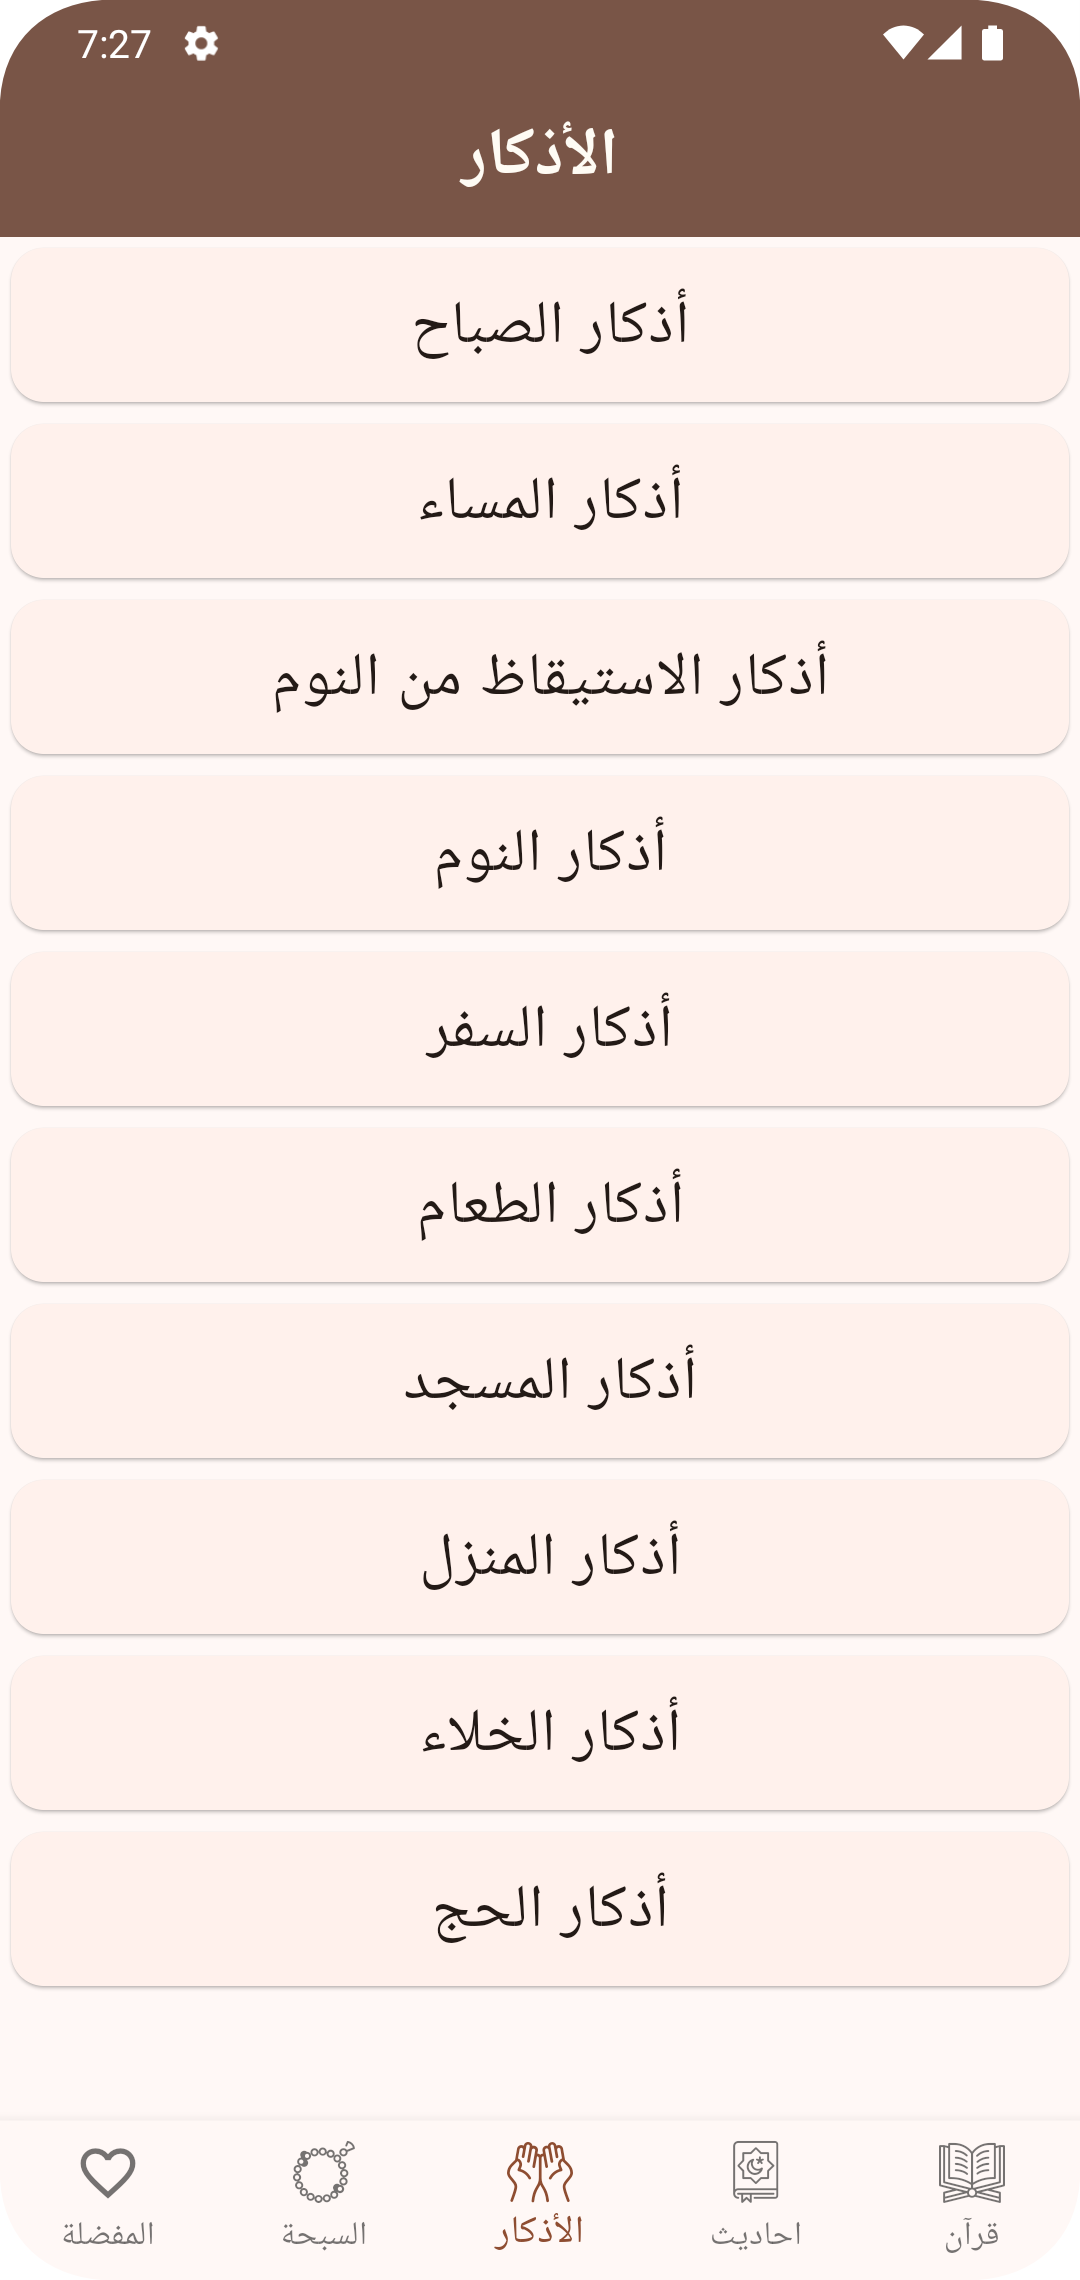
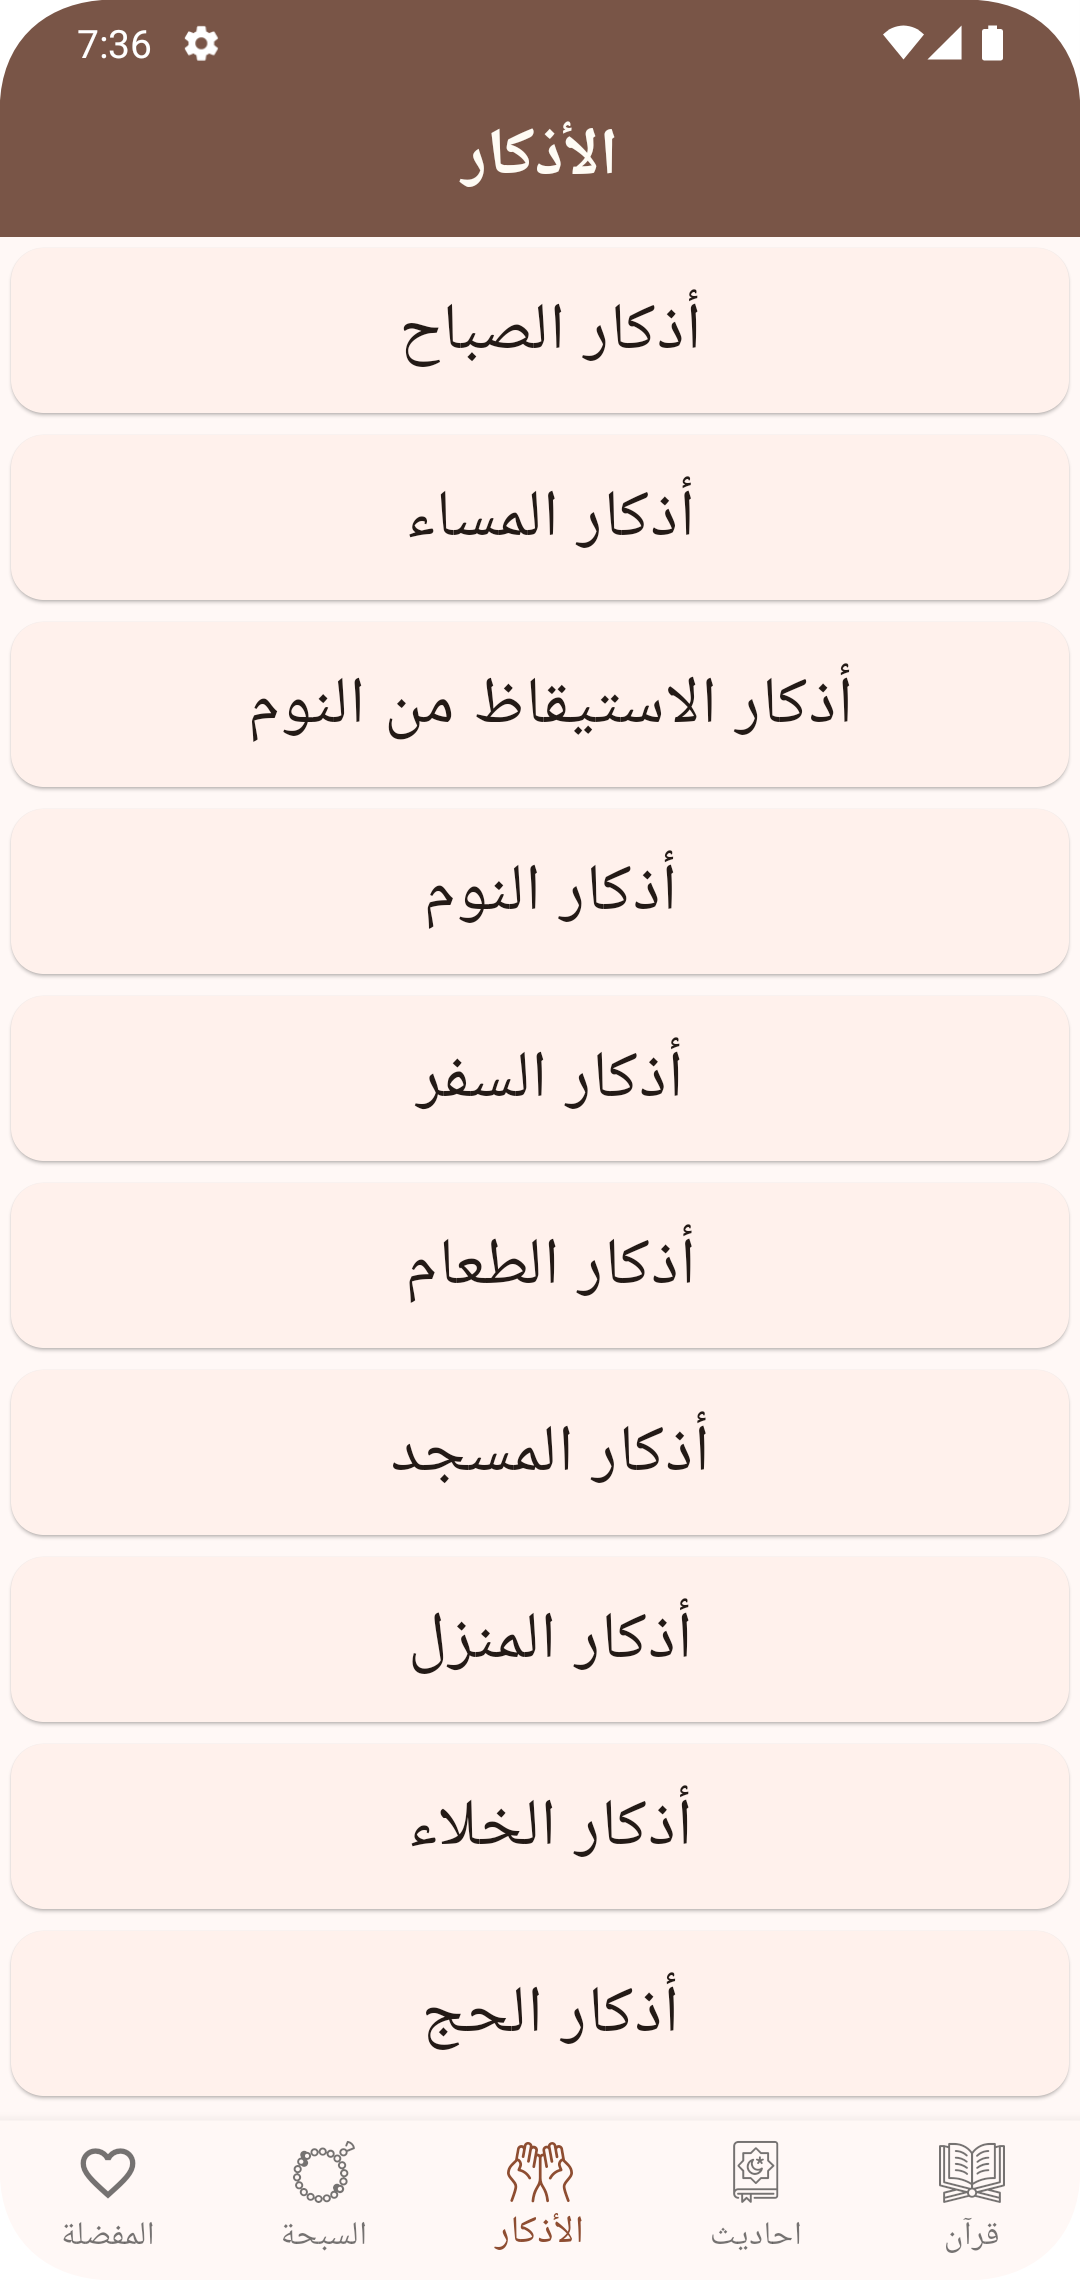
edit readme

diff --git a/lib/features/azkar/azkar.dart b/lib/features/azkar/azkar.dart
@@ -30,8 +30,8 @@ class Azkarr extends StatelessWidget {
                     title: Center(
                         child: Text(
                       zekr.title,
-                      style: const TextStyle(fontSize: 22),
-                    )),
+                      style: const TextStyle(fontSize: 24 ),
+                    )),minTileHeight: 60,
                     onTap: () {
                       Navigator.push(
                         context,
